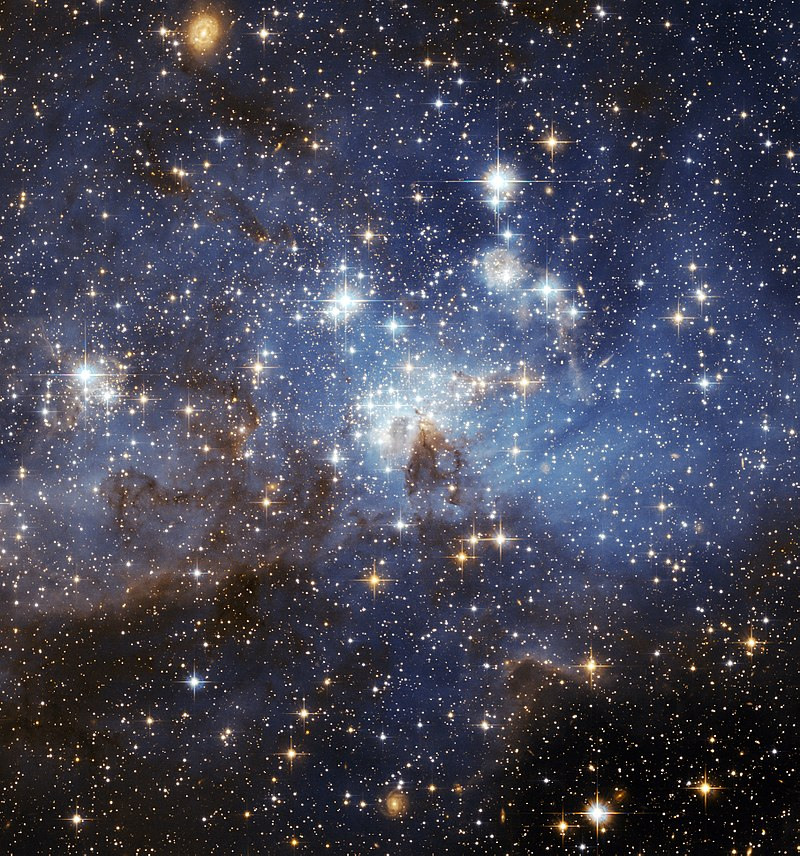
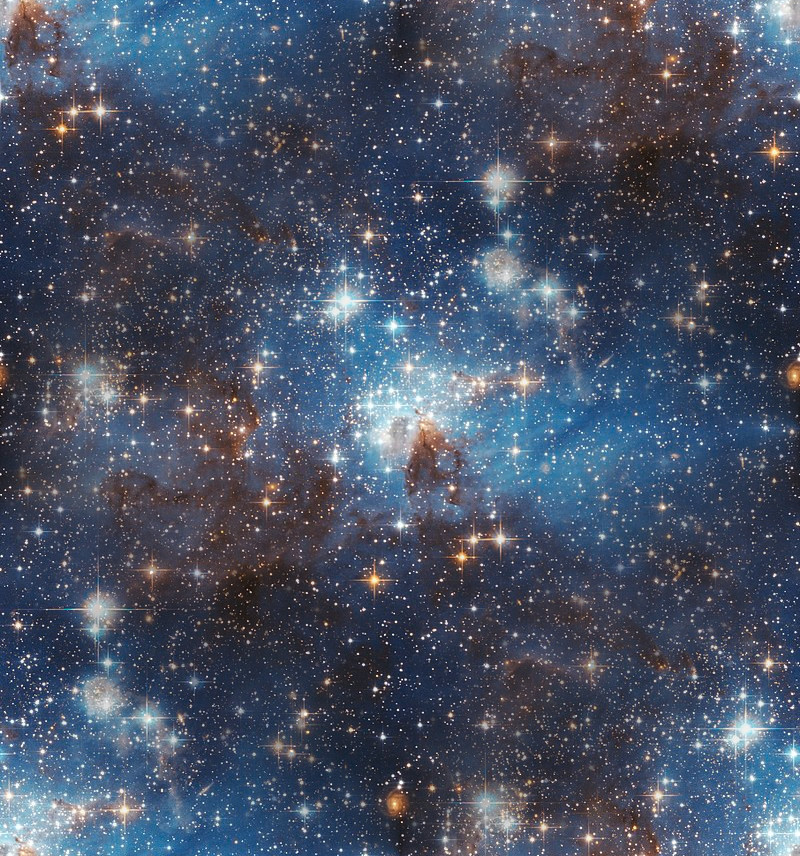
generally better css

diff --git a/music.html b/music.html
@@ -22,6 +22,6 @@
             <li><a href="https://sukoshijon.bandcamp.com/album/selected-abandoned-tracks"><img src="selected abandoned tracks.png" width=256px height=256px alt="Selected Abandoned Tracks 1"></a></li>
             <li><a href="https://sukoshijon.bandcamp.com/album/selected-abandoned-tracks-volume-2"><img src="selected abandoned tracks 2.png" width=256px height=256px alt="Selected Abandoned Tracks 2"></a></li>
 		</ul>
-		<p>alternatively, you could visit me on bandcamp. <a href="https://sukoshijon.bandcamp.com">dream library</a> is my name for ambient/electronica stuff, everything else goes <a href="https://sukoshijon.bandcamp.com">here</a></p>
+		<p>alternatively, you could visit me on bandcamp. <a href="https://dreamlibrary.bandcamp.com">dream library</a> is my name for ambient/electronica stuff, everything else goes <a href="https://sukoshijon.bandcamp.com">here</a></p>
 	</body>
 </html>

diff --git a/style.css b/style.css
@@ -1,6 +1,8 @@
 body {
 	font-family: Arial, Helvetica, sans-serif;
 	background-color: black;
+	background-image: linear-gradient(#000000ee, #000000ee), url("stars.jpg");
+	background-attachment: fixed;
 }
 
 p {
@@ -61,10 +63,12 @@ li a {
 	text-align: center;
 	padding: 14px 16px;
 	text-decoration: none;
+	transition: background-color 0.25s;
 }
   
 li a:hover {
-	background-color: green;
+	background-color: #1ef76555;
+	transition: background-color 0.25s;
 }
 
 .active {
@@ -72,8 +76,10 @@ li a:hover {
 }
 
 .upper {
-	background-image: url("stars.jpg");
+	background-image: linear-gradient(to right,#000000bb, #00000000), url("stars.jpg");
+	background-attachment: fixed;
 	height: 96px;
+	margin-top: -22px;
 }
 
 iframe {

diff --git a/index.html b/index.html
@@ -11,7 +11,7 @@
 			<h1>sukoshijon</h1>
 		</div>
 		
-		<ul>
+		<ul class="navbar">
 			<li><a class="active">Home</a></li>
 			<li><a href="music.html">Music</a></li>
 			<li><a href="projects.html">Web Projects</a></li>

diff --git a/projects.html b/projects.html
@@ -11,7 +11,7 @@
 			<h1>sukoshijon</h1>
 		</div>
 		
-		<ul>
+		<ul class="navbar">
 			<li><a href="index.html">Home</a></li>
 			<li><a href="music.html">Music</a></li>
 			<li><a class="active">Web Projects</a></li>
